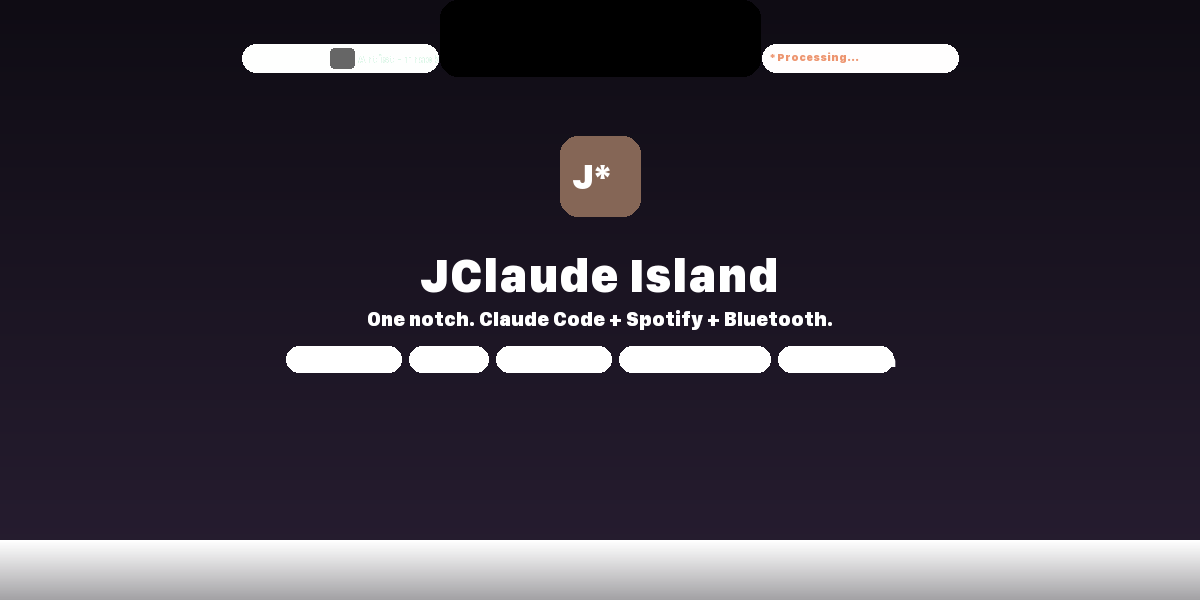
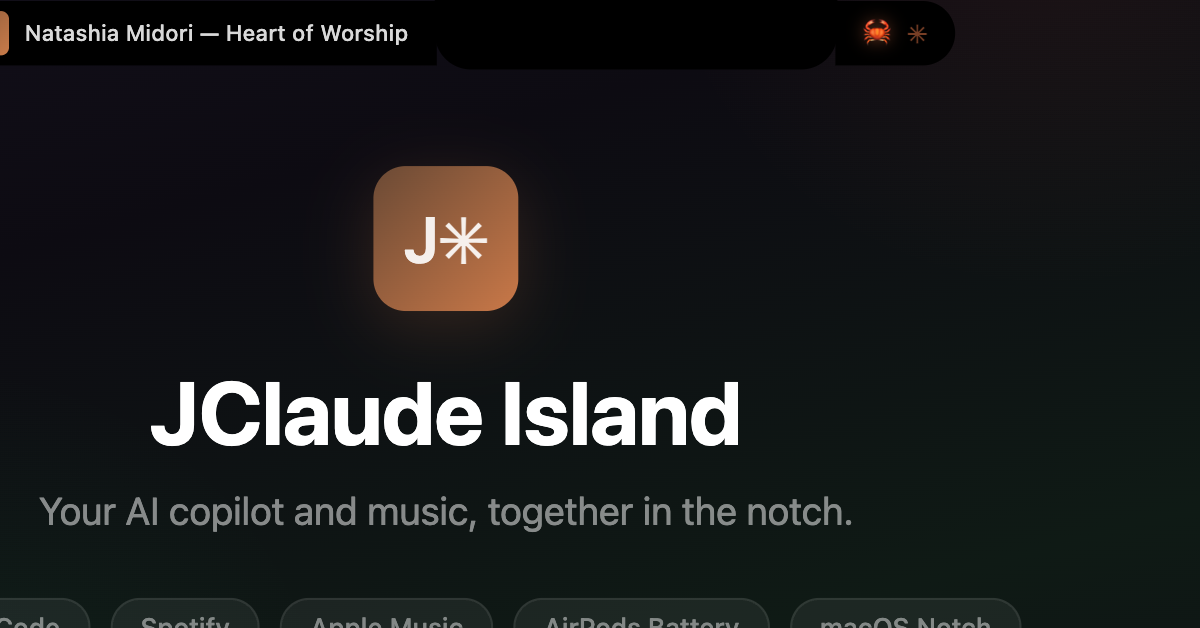
feat: click track to open music app, polished README
- Click album art or track name in expanded view to open Spotify/Apple Music
- README rewritten: respectful tone, no competitive language
- Better hero banner and feature showcase images (Playwright-rendered HTML)
- Removed old Pillow-generated images

diff --git a/ClaudeIsland/UI/Components/CompactMediaRow.swift b/ClaudeIsland/UI/Components/CompactMediaRow.swift
@@ -15,22 +15,29 @@ struct CompactMediaRow: View {
         if let nowPlaying = mediaService.nowPlaying, nowPlaying.hasContent {
             VStack(spacing: 6) {
                 HStack(spacing: 10) {
-                    // Album art
-                    albumArt(nowPlaying)
-                        .frame(width: 36, height: 36)
-                        .clipShape(RoundedRectangle(cornerRadius: 6))
+                    // Album art + track info (click to open app)
+                    Button {
+                        openMusicApp(bundleId: nowPlaying.bundleIdentifier)
+                    } label: {
+                        HStack(spacing: 10) {
+                            albumArt(nowPlaying)
+                                .frame(width: 36, height: 36)
+                                .clipShape(RoundedRectangle(cornerRadius: 6))
 
-                    // Track info
-                    VStack(alignment: .leading, spacing: 2) {
-                        Text(nowPlaying.title)
-                            .font(.system(size: 12, weight: .medium))
-                            .foregroundColor(.white)
-                            .lineLimit(1)
-                        Text(nowPlaying.artist)
-                            .font(.system(size: 10))
-                            .foregroundColor(.white.opacity(0.5))
-                            .lineLimit(1)
+                            VStack(alignment: .leading, spacing: 2) {
+                                Text(nowPlaying.title)
+                                    .font(.system(size: 12, weight: .medium))
+                                    .foregroundColor(.white)
+                                    .lineLimit(1)
+                                Text(nowPlaying.artist)
+                                    .font(.system(size: 10))
+                                    .foregroundColor(.white.opacity(0.5))
+                                    .lineLimit(1)
+                            }
+                        }
+                        .contentShape(Rectangle())
                     }
+                    .buttonStyle(.plain)
 
                     Spacer()
 
@@ -90,6 +97,12 @@ struct CompactMediaRow: View {
             .padding(.vertical, 6)
             .background(Color.white.opacity(0.04))
             .clipShape(RoundedRectangle(cornerRadius: 10))
+        }
+    }
+
+    private func openMusicApp(bundleId: String) {
+        if let url = NSWorkspace.shared.urlForApplication(withBundleIdentifier: bundleId) {
+            NSWorkspace.shared.openApplication(at: url, configuration: .init())
         }
     }
 

diff --git a/README.md b/README.md
@@ -1,60 +1,59 @@
 <div align="center">
   <img src="ClaudeIsland/Assets.xcassets/AppIcon.appiconset/icon_128x128.png" alt="JClaude Island" width="80" height="80">
   <h1>JClaude Island</h1>
-  <p><strong>One notch to rule them all.</strong></p>
-  <p>Claude Code + Spotify + Apple Music + Bluetooth in a single macOS Dynamic Island.</p>
+  <p><strong>Your AI copilot and music, together in the notch.</strong></p>
   <br />
   <img src="hero-banner.png" alt="Hero" width="600">
 </div>
 
 ---
 
-Stop juggling [Claude Island](https://github.com/farouqaldori/claude-island), [Alcove](https://tryalcove.com/), and [Vibe Island](https://vibeisland.app/). JClaude Island merges AI agent monitoring with media controls and device tracking into one notch app that gets out of your way.
+JClaude Island is a macOS notch app that brings Claude Code sessions, music playback, and Bluetooth device info into one place. Built on top of the excellent [Claude Island](https://github.com/farouqaldori/claude-island), with additional media and device integrations.
 
 <div align="center">
-  <img src="feature-showcase.png" alt="Feature Showcase" width="800">
+  <img src="feature-showcase.png" alt="Features" width="700">
 </div>
 
-## How It Works
+## What It Does
 
-**Closed notch** adapts to what's happening:
+**Closed notch** adapts to context:
 
 | State | Left Wing | Right Wing |
 |-------|-----------|------------|
 | Claude processing | Crab icon | Orange spinner |
-| Spotify playing | Album art + track | Waveform bars |
+| Music playing (Claude idle) | Album art + track | Waveform animation |
 | Both active | Claude takes priority | Expand to see both |
-| Nothing | Notch hides | |
 
 **Expanded notch** shows everything stacked:
-- Claude session rows with token usage bars and tool approval
-- Spotify/Apple Music compact player with seekable progress bar
-- AskUserQuestion prompts with pickable options
+- Claude session rows with token usage bars
+- Spotify / Apple Music player with seekable progress bar
+- Click on track name to open the music app
+- AskUserQuestion prompts with pickable option buttons
 
 ## Features
 
 **Claude Code**
-- Multi-session monitoring with per-session token usage bars
+- Multi-session monitoring with vertical token usage bars
 - Tool permission approval directly from the notch
-- AskUserQuestion prompts with clickable option buttons
-- Stale session detection (auto-idle after 30s without events)
+- AskUserQuestion prompts with clickable options
+- Stale session detection (auto-idle after 30s)
 - Session titles sync with `/rename`
 
 **Now Playing**
-- Spotify and Apple Music via AppleScript (no private API dependency)
-- Play / pause / next / previous from the notch
+- Spotify and Apple Music support
+- Play / pause / next / previous controls
 - Seekable progress bar with time labels
-- Album art with smooth crossfade on track change
+- Album art crossfade on track change
+- Click track name to open the music app
 
 **Bluetooth**
 - Connected device list with battery levels
 - AirPods Left / Right / Case breakdown
-- Auto-refresh every 30 seconds
 
-**Visual Polish** (inspired by [Alcove](https://tryalcove.com/))
+**Visual Polish**
 - 5-bar organic waveform animation
 - Frosted glass blur behind expanded panel
-- Context-aware hover glow (green for media, orange for Claude)
+- Context-aware hover glow
 - Mode-switch bounce animation
 
 ## Install
@@ -77,38 +76,26 @@ cp -R ~/Library/Developer/Xcode/DerivedData/ClaudeIsland-*/Build/Products/Releas
 
 Or open `ClaudeIsland.xcodeproj` in Xcode and hit **Cmd+R**.
 
-Hooks auto-install on first launch. No configuration needed.
+Hooks auto-install on first launch.
 
 ## Architecture
 
 ```
-Claude Code hooks
-    --> Python script (~/.claude/hooks/)
-    --> Unix socket (/tmp/dynamic-island.sock)
-    --> Swift app (NotchView + SessionStore + MediaRemoteService)
-    --> macOS notch overlay (NSPanel, non-activating, click-through)
-
-Spotify / Apple Music
-    --> AppleScript polling (2s interval)
-    --> NSWorkspace process check (never launches apps)
-
-Bluetooth
-    --> IOBluetooth + IOKit (30s polling)
+Claude Code hooks --> Python (~/.claude/hooks/) --> Unix socket --> SwiftUI notch overlay
+Spotify/Apple Music --> AppleScript polling (2s) --> Now Playing state
+Bluetooth --> IOBluetooth + IOKit (30s polling) --> Device list
 ```
 
 ## Known Limitations
 
-- **Chrome / YouTube not supported.** AppleScript can't query Chrome media state. Only Spotify and Apple Music.
-- **Token count is approximate.** Uses JSONL-parsed input/output tokens, not the internal context window percentage from Claude Code.
-- **Ad-hoc signing only.** Uses AppleScript automation, so it can't be distributed via the Mac App Store.
-- **macOS 26 (Tahoe):** MediaRemote private API is blocked for ad-hoc signed apps. JClaude Island uses AppleScript as the primary media backend.
+- Chrome / YouTube not supported (AppleScript limitation)
+- Token count is approximate (JSONL-parsed, not internal context %)
+- Ad-hoc signing only (uses AppleScript automation)
 
-## Credits
+## Acknowledgments
 
-- [Claude Island](https://github.com/farouqaldori/claude-island) by Farouq Aldori -- the foundation this is built on
-- [Alcove](https://tryalcove.com/) -- inspiration for waveform, blur, and polish
-- [Vibe Island](https://vibeisland.app/) -- inspiration for multi-agent notch UX
+Built on [Claude Island](https://github.com/farouqaldori/claude-island) by Farouq Aldori. Learned from [Alcove](https://tryalcove.com/) and [Vibe Island](https://vibeisland.app/) for UX patterns.
 
 ## License
 
-Apache 2.0 (same as upstream Claude Island)
+Apache 2.0
